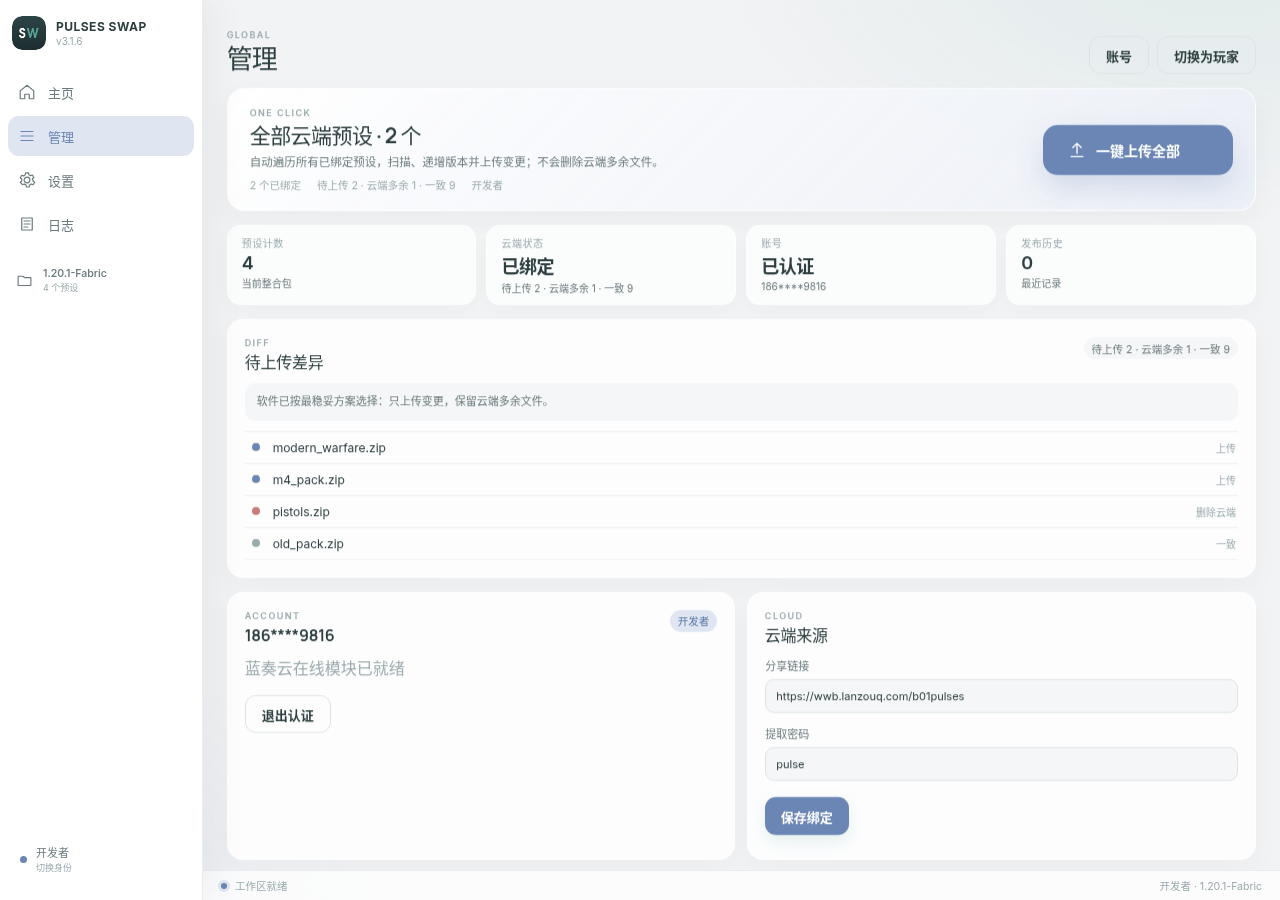
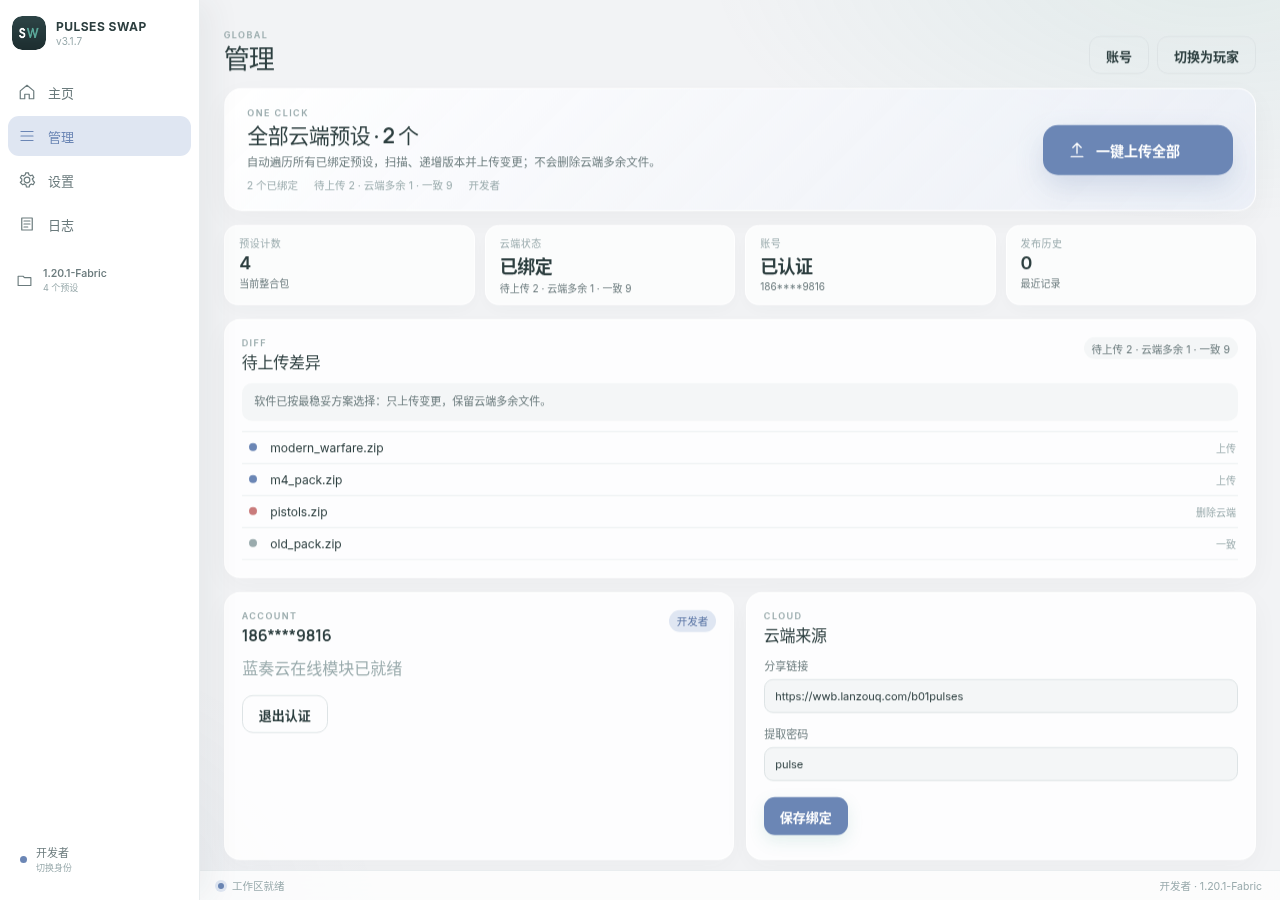
feat(3.1.7): 登录门禁、身份渐变覆盖层、最近打开与列表伸展

diff --git a/src/pulses_web/web/src/App.jsx b/src/pulses_web/web/src/App.jsx
@@ -31,7 +31,7 @@ function Logo() {
 function Cover({ state }) {
   if (!state.active) return null
   return (
-    <div className={`cover cover-${state.phase}`} aria-hidden="true">
+    <div className={`cover cover-${state.phase} ${state.target ? `cover-to-${state.target}` : ''}`} aria-hidden="true">
       <div className="cover-panel cover-left" />
       <div className="cover-panel cover-right" />
       <div className="cover-aura" />
@@ -54,7 +54,7 @@ function Progress({ value, text }) {
   )
 }
 
-function Sidebar({ page, onNavigate, role, expanded, setExpanded, version, onSwitchRole, pack, presetCount }) {
+function Sidebar({ page, onNavigate, role, loggedIn, expanded, setExpanded, version, onSwitchRole, pack, presetCount }) {
   return (
     <aside className={`sidebar ${expanded ? 'expanded' : ''}`}
       onMouseEnter={() => setExpanded(true)} onMouseLeave={() => setExpanded(false)}>
@@ -79,10 +79,14 @@ function Sidebar({ page, onNavigate, role, expanded, setExpanded, version, onSwi
         <span className="sidebar-pack-copy"><strong>{pack.name}</strong><small>{presetCount} 个预设</small></span>
       </button>}
       <div className="sidebar-foot">
-        <button className="role-switch" onClick={onSwitchRole}
-          title={role === 'developer' ? '切换为玩家' : '切换为开发者'}>
-          <span className={`role-dot ${role}`} />
-          <span className="role-copy">{role === 'developer' ? '开发者' : '玩家'}<small>切换身份</small></span>
+        <button className={`role-switch ${loggedIn ? '' : 'logged-out'}`} onClick={onSwitchRole}
+          title={loggedIn ? (role === 'developer' ? '切换为玩家' : '切换为开发者') : '未登录 · 无法切换身份'}
+          aria-label={loggedIn ? '切换身份' : '未登录 · 无法切换身份'}>
+          <span className={`role-dot ${loggedIn ? role : 'offline'}`} />
+          <span className="role-copy">
+            {loggedIn ? (role === 'developer' ? '开发者' : '玩家') : '未登录'}
+            <small>{loggedIn ? '切换身份' : '无法切换身份'}</small>
+          </span>
         </button>
       </div>
     </aside>
@@ -263,13 +267,21 @@ function Home({ snap, actions, busy }) {
                 <button className="btn small" disabled><Icon name="plus" />新建</button></div>
               <div className="empty-list"><Icon name="folder" size={22} /><strong>导入后自动生成</strong><span>整合包里的 tacz 会被识别为第一个预设。</span></div>
             </section>
-            <section className="card detail-card">
-              <div className="card-head"><div><span className="eyebrow">DETAIL</span><h2>等待整合包</h2></div></div>
-              <div className="empty-list"><Icon name="download" size={22} /><strong>拖入即可开始</strong><span>预设、枪包列表和云端绑定会显示在这里。</span></div>
-              {snap.recent?.length > 0 && <div className="recent-strip">
-                <span className="eyebrow">最近</span>
-                {snap.recent.slice(0, 3).map((r) => <button key={r.path} className="recent-chip" onClick={() => actions.openPack(r.path)} title={r.path}>{r.name || r.path}</button>)}
-              </div>}
+            <section className="card detail-card recent-card">
+              <div className="card-head"><div><span className="eyebrow">RECENT</span><h2>最近打开</h2></div>
+                <span className="pill">{(snap.recent || []).length}</span></div>
+              {(snap.recent || []).length > 0 ? <>
+                <p className="recent-hint">拖入整合包内的任意文件/文件夹也能识别；也可以直接选择最近记录。</p>
+                <div className="recent-open-scroll">
+                  {snap.recent.map((r) => (
+                    <button key={r.path} className="recent-open-row" onClick={() => actions.openPack(r.path)} title={r.path}>
+                      <span className="recent-open-icon"><Icon name="folder" size={16} /></span>
+                      <span className="recent-open-copy"><strong>{r.name || r.path}</strong><small>{r.path}</small></span>
+                      <Icon name="chevron" size={14} />
+                    </button>
+                  ))}
+                </div>
+              </> : <div className="empty-list"><Icon name="download" size={22} /><strong>拖入即可开始</strong><span>拖入整合包内的任意文件/文件夹都能定位到 tacz；预设和枪包列表会显示在这里。</span></div>}
             </section>
           </div>
         </>
@@ -831,7 +843,7 @@ export default function App() {
       if (!url?.trim()) { showToast('请填写分享链接', 'warning'); return }
       startJob('online.add', { url: url.trim(), password }, '从云端添加')
     } }), [startJob, showToast])
-  const login = useCallback(() => setModal({ kind: 'login', title: '登录蓝奏云', onConfirm: async ({ username, password }) => {
+  const login = useCallback(() => setModal({ kind: 'login', title: '登录蓝奏云', body: '登录后即可切换身份。', onConfirm: async ({ username, password }) => {
     try { const data = await invoke('account.login', { username, password }); setSnap(data.state); showToast('登录成功', 'success') }
     catch (err) { showToast(err.message, 'error') }
   } }), [showToast])
@@ -867,21 +879,25 @@ export default function App() {
 
   const switchRole = useCallback(async (role) => {
     if (role === snap.role || roleSwitchRef.current) return
+    if (role === 'developer' && !snap.online.account?.label) {
+      login()
+      return
+    }
     roleSwitchRef.current = true
     const label = role === 'developer' ? '开发者' : '玩家'
     const animate = snap.settings?.animations !== false
-    if (animate) setCover({ active: true, phase: 'role-cover', note: `正在切换为${label}` })
+    if (animate) setCover({ active: true, phase: 'role-cover', note: `正在切换为${label}`, target: role })
     try {
       const state = await invoke('app.role.switch', { role })
       if (!animate) { setSnap(state); }
       else {
         // 至少让渐变铺开，再在覆盖层下换主题
-        await new Promise((r) => setTimeout(r, 260))
+        await new Promise((r) => setTimeout(r, 320))
         setSnap(state)
         setCover((s) => ({ ...s, phase: 'role-hold', note: `已切换为${label}` }))
-        await new Promise((r) => setTimeout(r, 300))
+        await new Promise((r) => setTimeout(r, 380))
         setCover((s) => ({ ...s, phase: 'role-reveal' }))
-        await new Promise((r) => setTimeout(r, 430))
+        await new Promise((r) => setTimeout(r, 520))
         setCover({ active: false, phase: 'idle' })
       }
       showToast(role === 'developer' ? '已切换为开发者' : '已切换为玩家', 'success')
@@ -891,7 +907,7 @@ export default function App() {
     } finally {
       roleSwitchRef.current = false
     }
-  }, [snap.role, snap.settings?.animations, showToast])
+  }, [snap.role, snap.online.account?.label, snap.settings?.animations, login, showToast])
 
   const actions = { openPack, openTacz, clearCache, clearLogs, addFromCloud, openDatabase, select, createPreset, rename, delete: remove, saveVersion, apply, bind, check, sync, syncAuto, publishAuto, syncAllAuto, publishAllAuto, publishPlan, publish, login, logout, updateSettings, switchRole, prompt, toast: showToast, navigate, cancelJob }
   const animations = snap.settings?.animations !== false
@@ -902,7 +918,7 @@ export default function App() {
 
   return (
     <div className={`app role-${snap.role} ${expanded ? 'sidebar-open' : ''} ${snap.settings?.animations === false ? 'animations-off' : ''}`}>
-      <Sidebar page={page} onNavigate={navigate} role={snap.role} expanded={expanded} setExpanded={setExpanded} version={snap.version} onSwitchRole={() => actions.switchRole(snap.role === 'developer' ? 'player' : 'developer')} pack={snap.pack} presetCount={snap.presets.length} />
+      <Sidebar page={page} onNavigate={navigate} role={snap.role} loggedIn={Boolean(snap.online.account?.label)} expanded={expanded} setExpanded={setExpanded} version={snap.version} onSwitchRole={() => actions.switchRole(snap.role === 'developer' ? 'player' : 'developer')} pack={snap.pack} presetCount={snap.presets.length} />
       <main className="workspace">
         <div className="content">
           <AnimatePresence mode="wait" initial={false}>

diff --git a/src/pulses_web/web/src/styles.css b/src/pulses_web/web/src/styles.css
@@ -701,3 +701,71 @@ h3 { font-size: 15px; font-weight: 600; }
   from { opacity: 1; transform: translateY(0); }
   to { opacity: 0; transform: translateY(-4px); }
 }
+
+/* 未登录身份按钮 */
+.role-switch.logged-out .role-copy { color: var(--text-2); }
+.role-switch.logged-out .role-copy small { color: var(--text-3); letter-spacing: .01em; }
+.role-dot.offline { background: var(--text-3); box-shadow: 0 0 0 3px var(--input); }
+.role-switch.logged-out:hover { background: var(--input); }
+
+/* 身份切换：渐变覆盖层里的细环与扫光 */
+.cover-to-player { background: linear-gradient(112deg, #E8EDF6 0%, #F4F6F8 48%, #E4F1EE 100%); }
+.cover-to-developer { background: linear-gradient(112deg, #E4F1EE 0%, #F4F6F8 48%, #E8EDF6 100%); }
+.cover-role-cover::after, .cover-role-hold::after {
+  content: ""; position: absolute; inset: -20% -10%;
+  background: linear-gradient(110deg, transparent 38%, rgba(255,255,255,.52) 49%, transparent 60%);
+  transform: translateX(-58%) skewX(-8deg);
+  animation: role-sheen 1.25s cubic-bezier(.22,1,.36,1) both;
+  pointer-events: none;
+}
+.cover-role-cover .cover-brand::before, .cover-role-hold .cover-brand::before {
+  content: ""; position: absolute; top: 50%; left: 50%; width: 310px; height: 310px; border-radius: 50%;
+  border: 1px solid color-mix(in srgb, var(--accent) 22%, transparent);
+  box-shadow: 0 0 0 1px rgba(255,255,255,.36) inset;
+  animation: role-ring 1.55s cubic-bezier(.22,1,.36,1) both;
+  pointer-events: none;
+}
+.cover-role-cover .cover-brand::after, .cover-role-hold .cover-brand::after {
+  content: ""; position: absolute; top: 50%; left: 50%; width: 430px; height: 430px; border-radius: 50%;
+  border: 1px solid color-mix(in srgb, var(--accent) 10%, transparent);
+  animation: role-ring 1.8s cubic-bezier(.22,1,.36,1) .06s both;
+  pointer-events: none;
+}
+@keyframes role-sheen {
+  from { transform: translateX(-58%) skewX(-8deg); opacity: 0; }
+  22% { opacity: 1; }
+  to { transform: translateX(58%) skewX(-8deg); opacity: 0; }
+}
+@keyframes role-ring {
+  from { opacity: 0; transform: translate(-50%, -50%) scale(.82); }
+  28% { opacity: 1; }
+  to { opacity: .55; transform: translate(-50%, -50%) scale(1); }
+}
+
+/* 首页列表填满可用高度 */
+.page-motion { display: flex; flex-direction: column; }
+.page-motion > .page { flex: 1 1 auto; width: 100%; }
+.home-page { flex: 1 1 auto; }
+.home-page .home-grid { flex: 1 1 auto; height: auto; min-height: 380px; }
+.home-page .empty-home-grid { flex: 1 1 auto; min-height: 300px; height: auto; }
+
+/* 最近打开：可滚动列表 */
+.recent-card { min-height: 0; }
+.recent-hint { color: var(--muted); font-size: 11px; line-height: 1.6; margin: -2px 0 10px; }
+.recent-open-scroll { flex: 1 1 auto; min-height: 0; overflow: auto; display: flex; flex-direction: column; gap: 4px; padding-right: 3px; }
+.recent-open-row {
+  flex: none; display: flex; align-items: center; gap: 10px; width: 100%;
+  padding: 10px 10px; border-radius: 10px; text-align: left;
+  transition: background 150ms, transform 120ms;
+}
+.recent-open-row:hover { background: var(--input); }
+.recent-open-row:active { transform: scale(.99); }
+.recent-open-icon { flex: none; width: 28px; height: 28px; border-radius: 8px; display: grid; place-items: center; background: var(--accent-soft); color: var(--accent); }
+.recent-open-copy { min-width: 0; flex: 1; display: flex; flex-direction: column; gap: 2px; }
+.recent-open-copy strong { font-size: 12px; font-weight: 550; overflow: hidden; text-overflow: ellipsis; white-space: nowrap; }
+.recent-open-copy small { color: var(--muted); font-size: 10px; overflow: hidden; text-overflow: ellipsis; white-space: nowrap; }
+.recent-open-row > svg { flex: none; color: var(--muted); }
+@media (max-width: 1050px) {
+  .home-page .home-grid { flex: none; height: auto; min-height: 0; grid-template-rows: 320px 360px; }
+  .home-page .empty-home-grid { flex: none; height: auto; min-height: 0; grid-template-rows: 300px 340px; }
+}

diff --git a/packaging/web_selftest.js b/packaging/web_selftest.js
@@ -43,6 +43,14 @@
     await sleep(500);
     check('sidebar.hover-manage', sidebar && getComputedStyle(sidebar).width === '200px', sidebar && getComputedStyle(sidebar).width);
     check('sidebar.role-switch', !!document.querySelector('.role-switch'));
+    const rs = document.querySelector('.role-switch');
+    check('role.logged-out-label', !!rs && rs.innerText.includes('未登录') && rs.innerText.includes('无法切换身份'), rs?.innerText);
+    rs?.click();
+    await sleep(220);
+    check('role.login-opened', document.querySelectorAll('.modal-card input').length >= 2);
+    check('role.login-title', (document.querySelector('#modal-title')?.innerText || '').includes('登录蓝奏云'));
+    window.dispatchEvent(new KeyboardEvent('keydown', { key: 'Escape', bubbles: true }));
+    await sleep(150);
 
     // 打开测试整合包
     await call('pack.open', { path: window.__SELFTEST_PACK });

diff --git a/src/pulses_web/api.py b/src/pulses_web/api.py
@@ -20,6 +20,26 @@ class ApiError(Exception):
         self.detail = detail
 
 
+def find_pack_root(paths) -> Path | None:
+    """从拖入的文件/文件夹一路向上找包含 tacz 的整合包根目录。
+
+    支持：整合包根、tacz 本身、tacz 内文件、整合包任意深层子文件/子目录。
+    不做“拖入目录下必须有 tacz”的限制。
+    """
+    for raw in paths or []:
+        try:
+            path = Path(str(raw)).expanduser()
+            if not path.exists():
+                continue
+            start = path if path.is_dir() else path.parent
+            for candidate in (start, *start.parents):
+                if (candidate / "tacz").is_dir():
+                    return candidate
+        except Exception:
+            continue
+    return None
+
+
 class Api:
     """pywebview 只暴露 invoke / pick_folder / handle_drop 等少量方法。"""
 
@@ -189,19 +209,8 @@ class Api:
             self._bus.emit("dnd.error", {"message": "没有拿到可用的文件路径"})
             return {"ok": False, "error": {
                 "code": "NO_PATH", "message": "没有拿到可用的文件路径"}}
-        # 拖入 tacz 或整合包目录都可以；优先找包含 tacz 的目录
-        pack = None
-        for p in clean:
-            path = Path(p)
-            if path.is_dir() and (path / "tacz").is_dir():
-                pack = path
-                break
-        if pack is None:
-            for p in clean:
-                path = Path(p)
-                if path.name.lower() == "tacz":
-                    pack = path.parent
-                    break
+        # 任意文件/文件夹拖入：向上找到包含 tacz 的整合包根目录
+        pack = find_pack_root(clean)
         if pack is None:
             self._bus.emit("dnd.error", {"message": "拖入的路径里没有 tacz 文件夹"})
             return {"ok": False, "error": {

diff --git a/tests/test_web_bridge.py b/tests/test_web_bridge.py
@@ -5,7 +5,7 @@ import time
 import unittest
 from pathlib import Path
 
-from pulses_web.api import Api
+from pulses_web.api import Api, find_pack_root
 from pulses_web.controller import AppController
 from pulses_web.events import EventBus, EventPump, JobRunner
 
@@ -60,6 +60,24 @@ class WebBridgeTests(unittest.TestCase):
         self.assertEqual(result["error"]["code"], "UNKNOWN_METHOD")
         result = self.api.invoke("pack.open", {})
         self.assertFalse(result["ok"])
+
+    def test_drop_any_descendant_finds_pack_root(self):
+        pack = Path(self.tmp.name) / "pack-desc"
+        deep = pack / "tacz" / "guns" / "rifles"
+        deep.mkdir(parents=True)
+        gun = deep / "ak.zip"
+        gun.write_bytes(b"x")
+        self.assertEqual(find_pack_root([str(gun)]), pack)
+        self.assertEqual(find_pack_root([str(deep)]), pack)
+        self.assertEqual(find_pack_root([str(pack / "tacz")]), pack)
+        self.assertEqual(find_pack_root([str(pack)]), pack)
+
+    def test_drop_outside_pack_returns_none(self):
+        outside = Path(self.tmp.name) / "outside"
+        outside.mkdir()
+        f = outside / "a.zip"
+        f.write_bytes(b"x")
+        self.assertIsNone(find_pack_root([str(f)]))
 
     def test_job_events_have_job_id_and_sequence(self):
         pack = Path(self.tmp.name) / "pack"

diff --git a/src/pulses/core/paths.py b/src/pulses/core/paths.py
@@ -45,7 +45,7 @@ except ImportError:
 
 
 # ==================== 常量定义 ====================
-VERSION = "3.1.6"
+VERSION = "3.1.7"
 AUTHOR = "NimShade"
 PROJECT_NAME = "Pulses Swap"
 

diff --git a/README.md b/README.md
@@ -1,6 +1,6 @@
 # Pulses Swap 3.0
 
-TACZ 枪包一键切换工具 · **PyWebView + React** 版 · v3.1.6
+TACZ 枪包一键切换工具 · **PyWebView + React** 版 · v3.1.7
 
 Pulses Swap 把 Minecraft 的 TACZ 枪包按「预设」分组：拖入整合包、选择预设、
 一键替换，也可以把预设发布到蓝奏云，让玩家增量同步。
